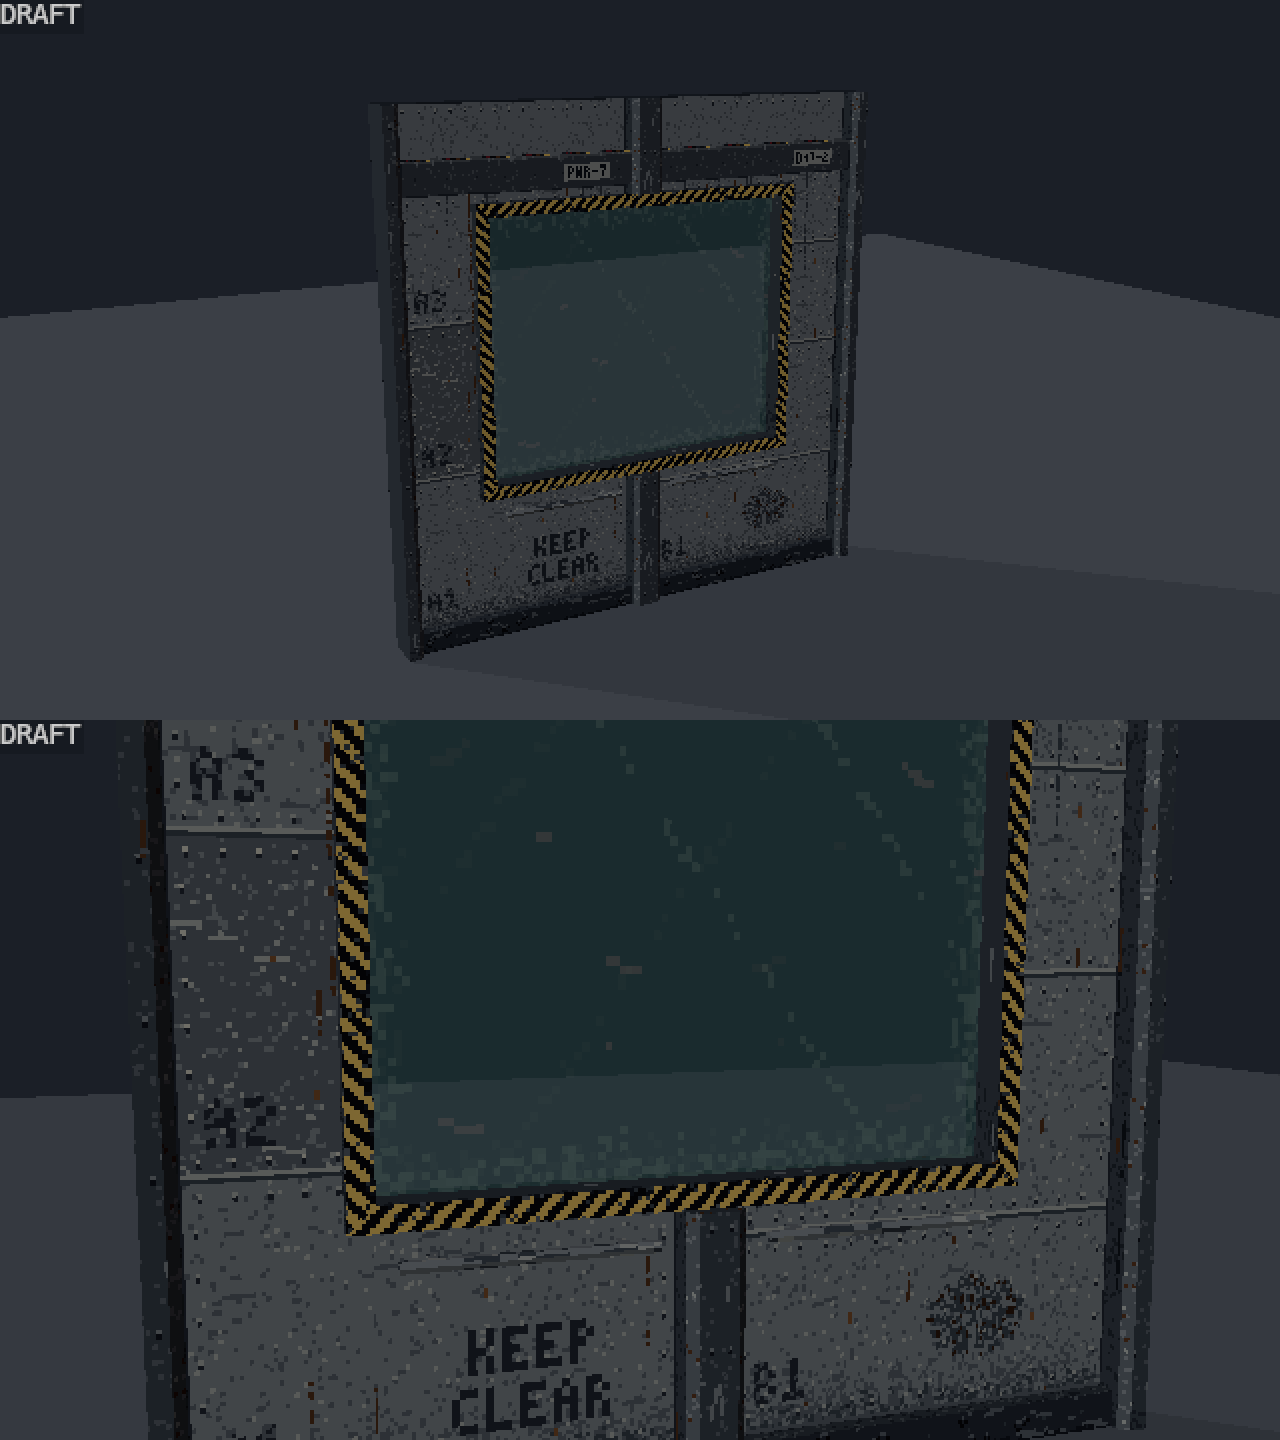
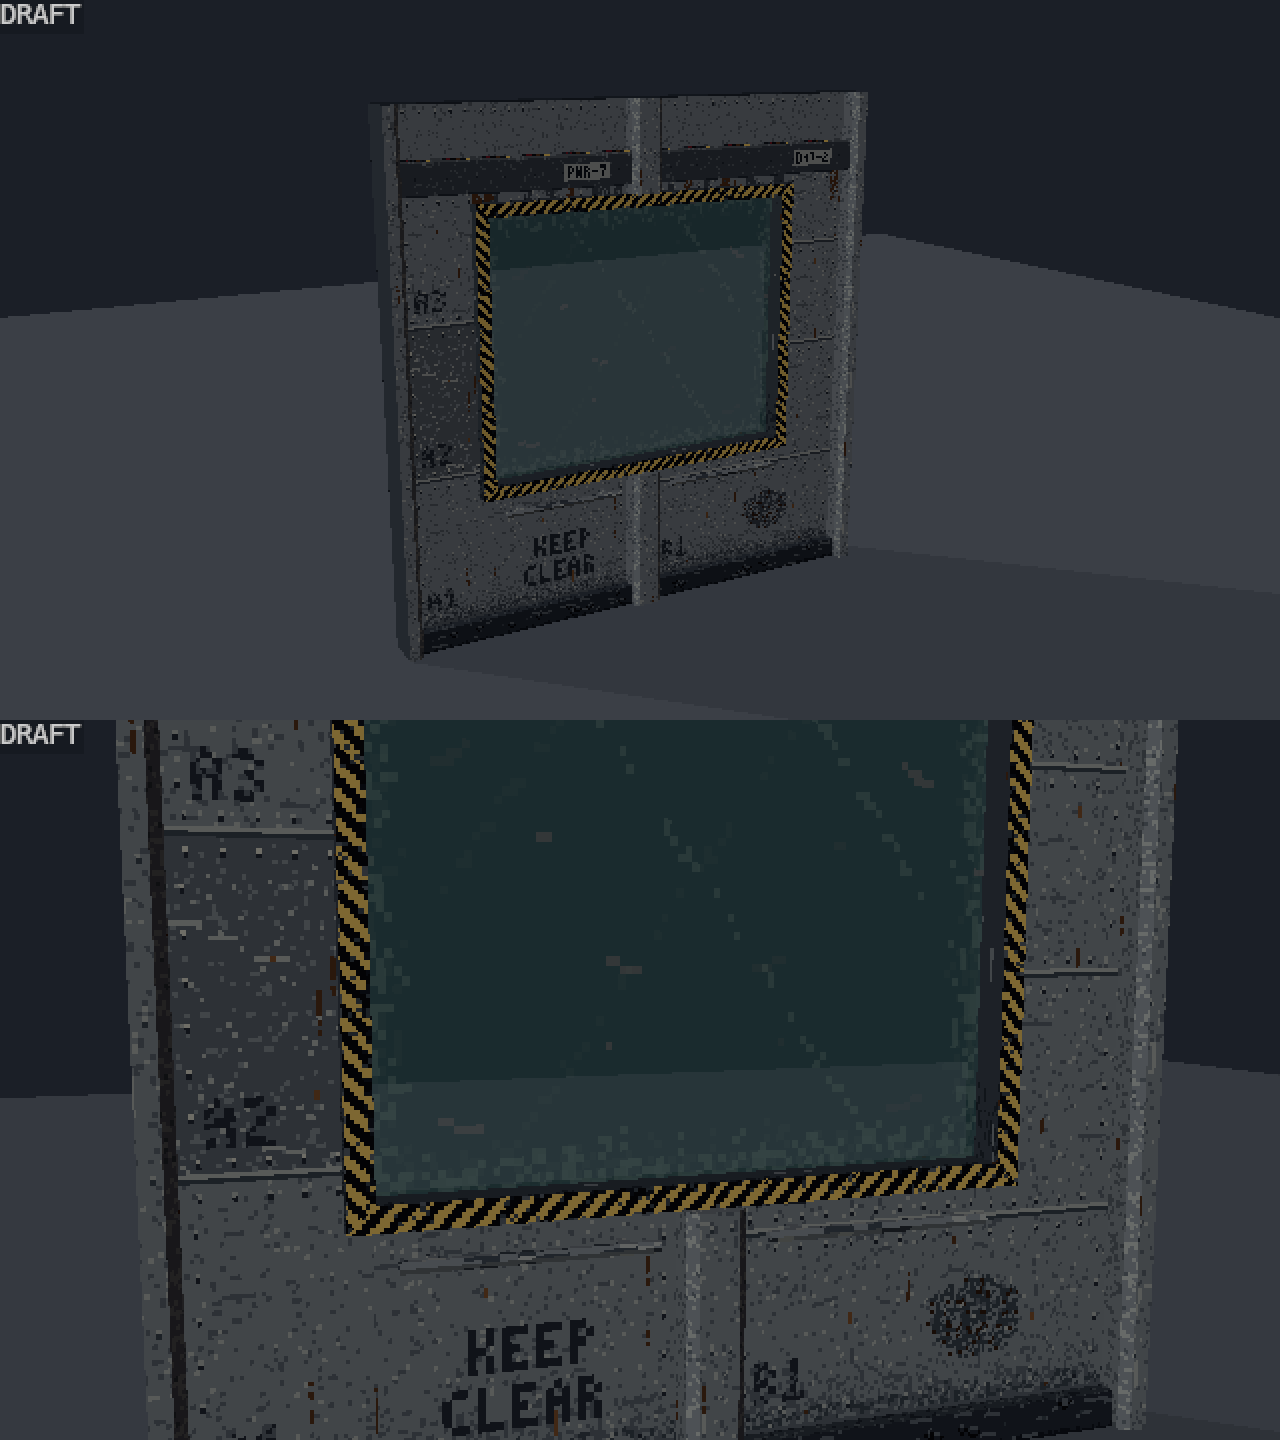
assets(P22): SM_Hangar_Wall_Viewport + T_Hangar_Floor_4x4 - no narrow dark columns (#17 follow-up)

diff --git a/docs/ASSET-REQUESTS.md b/docs/ASSET-REQUESTS.md
@@ -1607,7 +1607,7 @@ feedback:
 path: Assets/_Project/Art/Models/Hangar/SM_Hangar_Floor_4x4.fbx
 package: P22
 scene: Hangar
-status: final
+status: Vorschau
 priority: P1
 needed_by: 2026-11-09
 size_m: [4.0, 4.0, 0.15]
@@ -6998,7 +6998,7 @@ feedback: []
 path: Assets/_Project/Art/Models/Hangar/SM_Hangar_Wall_Viewport.fbx
 package: P106
 scene: Hangar
-status: final
+status: Vorschau
 priority: P2
 needed_by: 2026-11-20
 size_m: [4.0, 0.3, 4.0]
